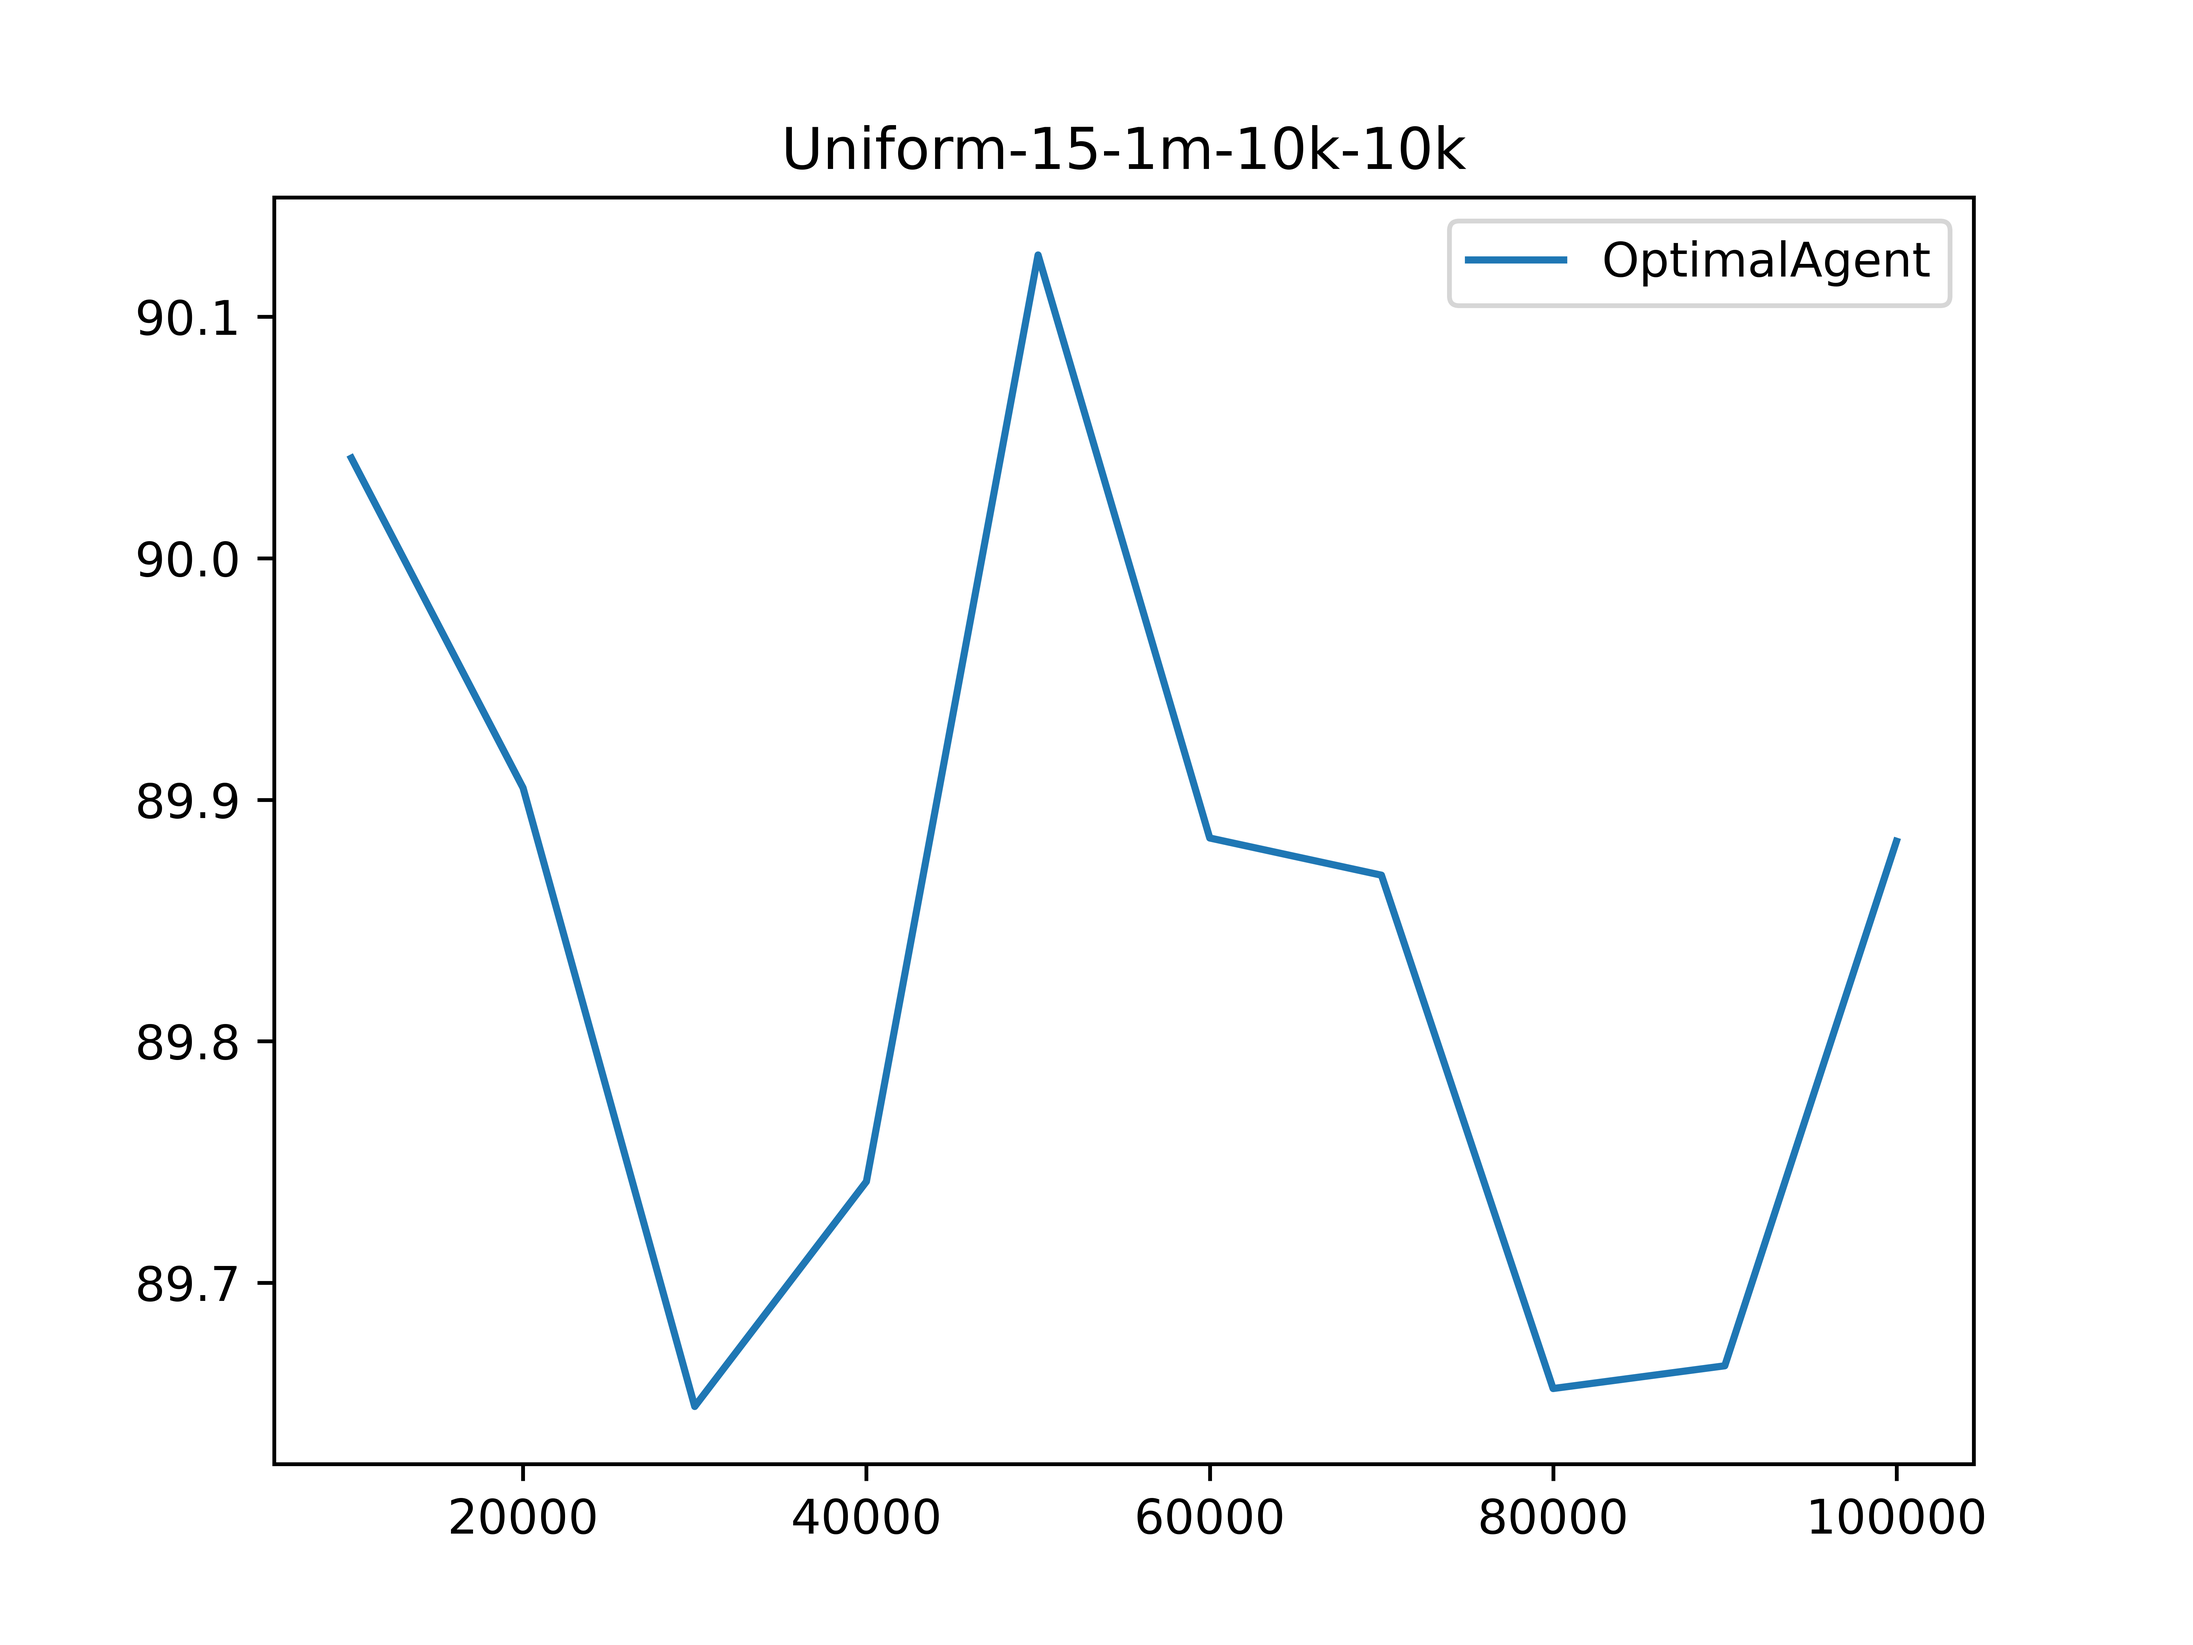
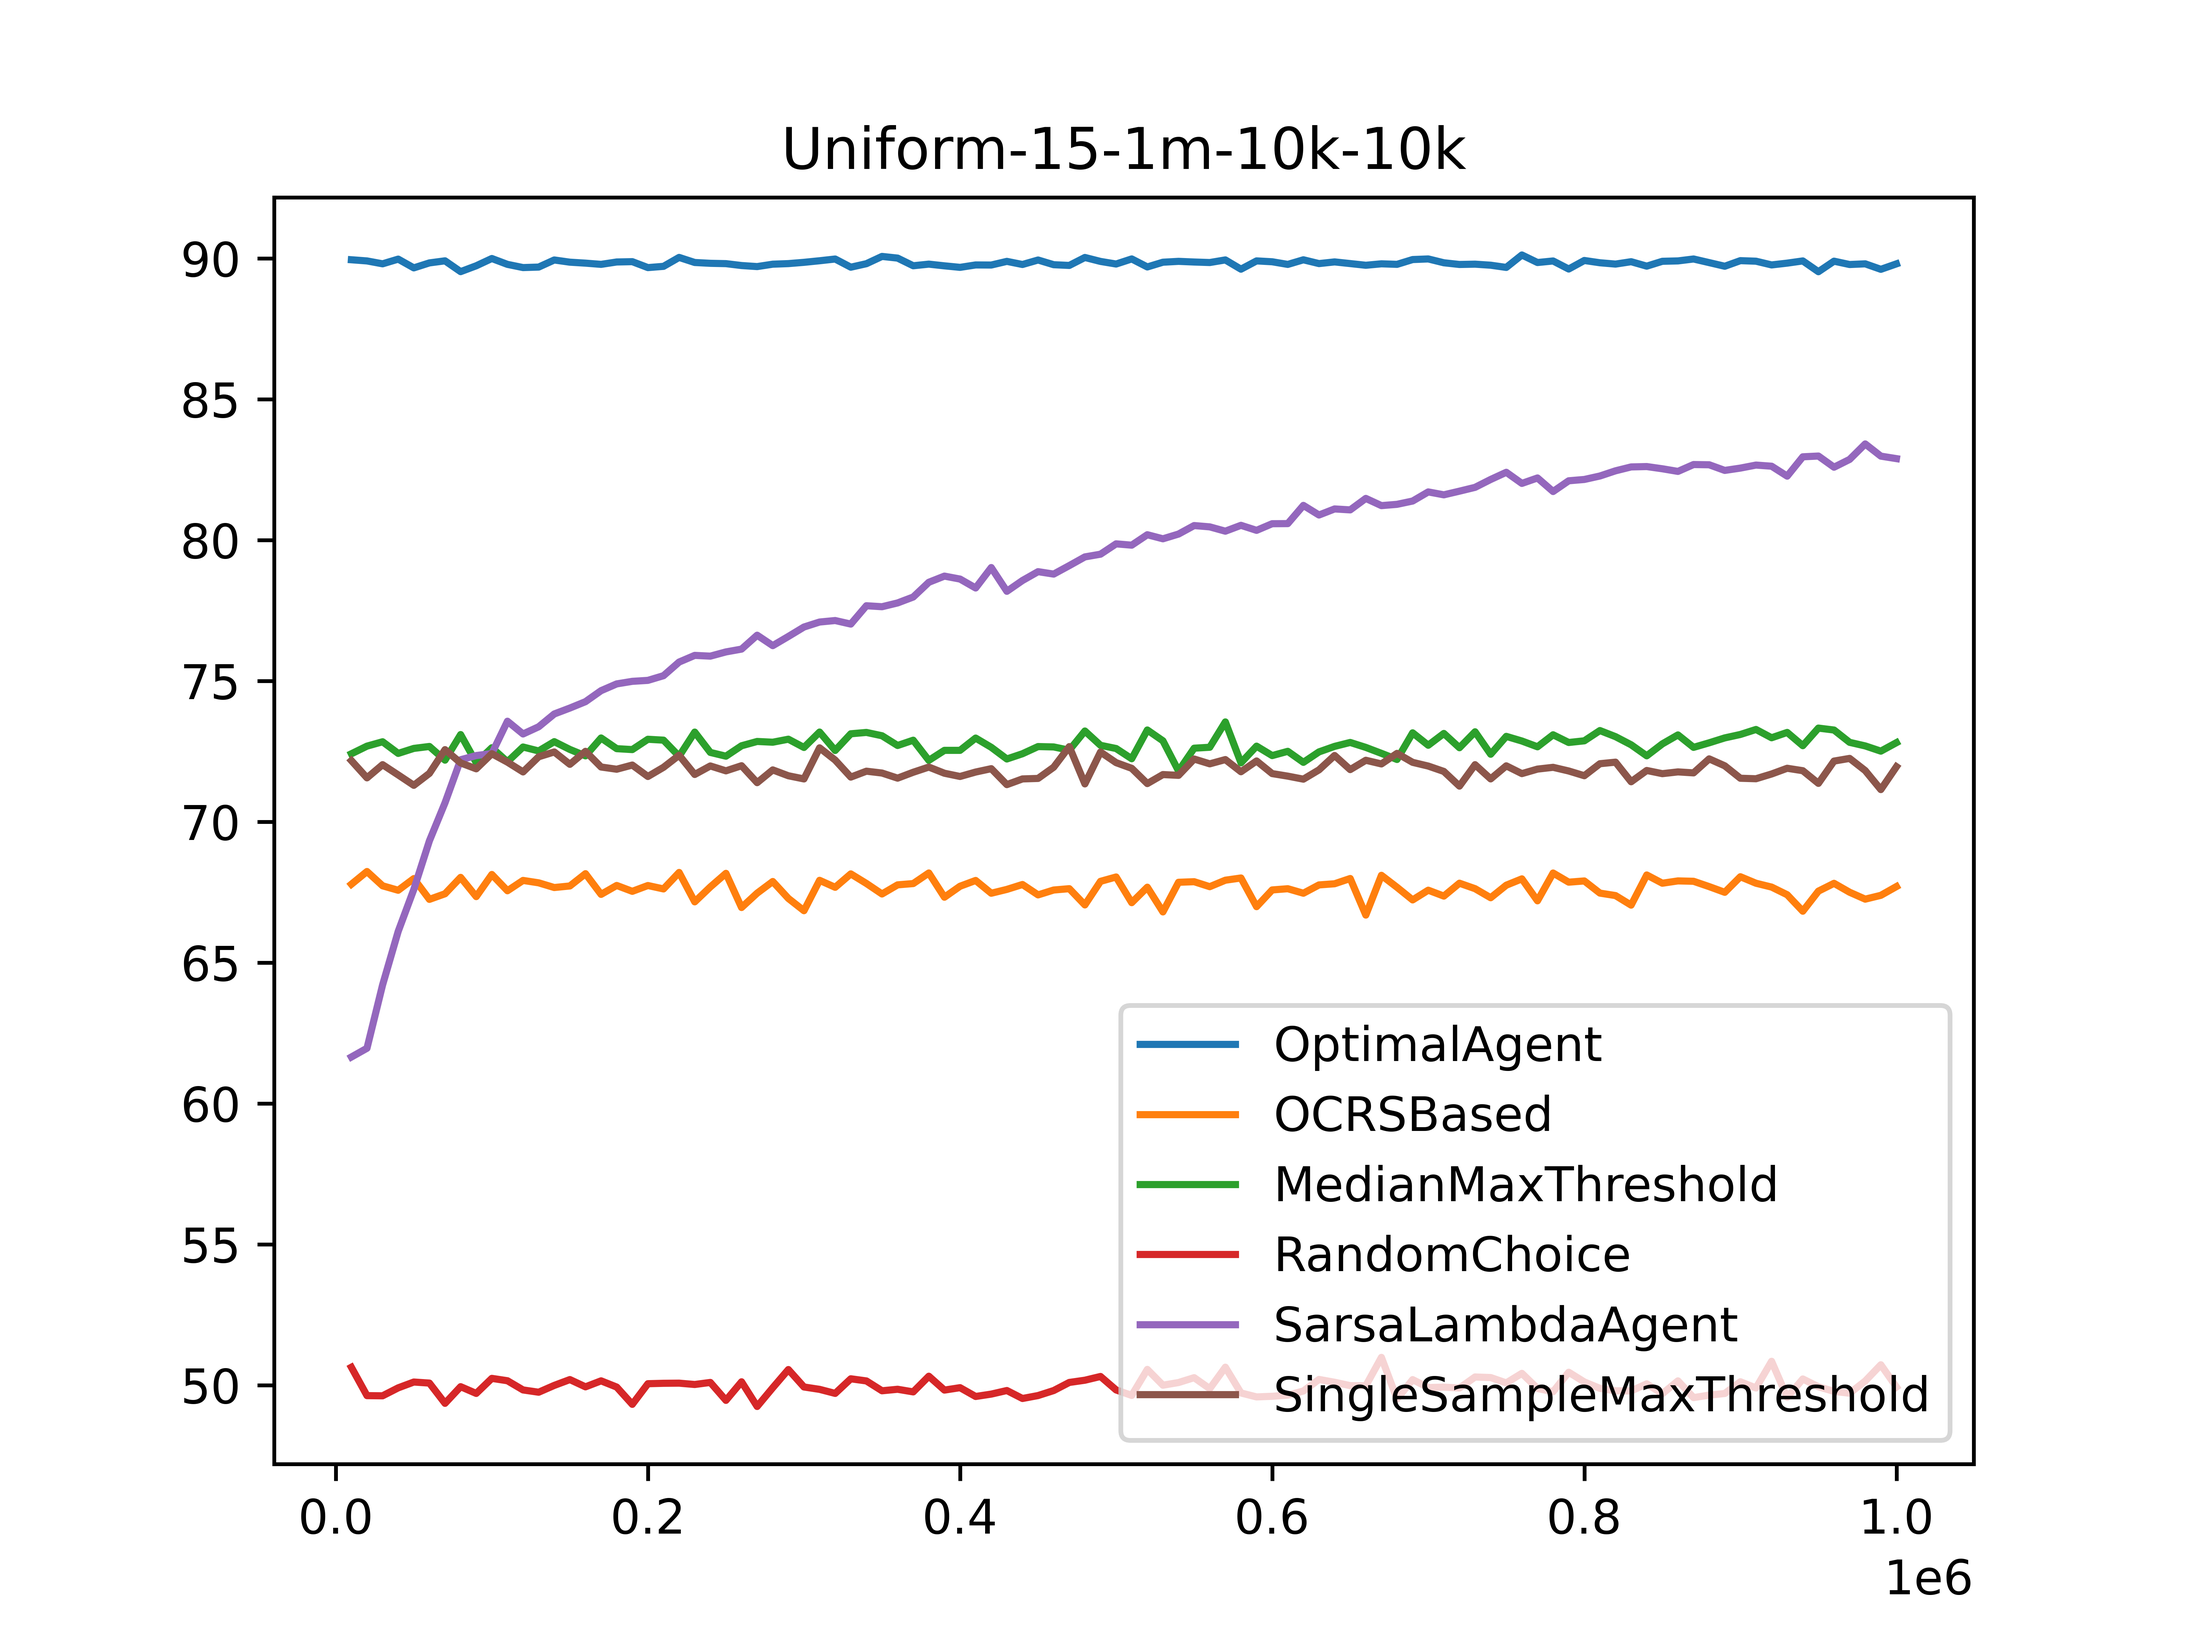
new tests

diff --git a/test.py b/test.py
@@ -6,7 +6,7 @@ from prophet import ProphetInequalityEnv
 import os
 
 from tile_coding import StateActionFeatureVectorWithTile
-from nn import VApproximationWithNN, PiApproximationWithNN
+from nn import VApproximationWithNN, PiApproximationWithNN, Baseline
 
 from classic_algos import *
 from sarsa import SarsaLambdaAgent
@@ -30,7 +30,6 @@ def train_and_compare_models(test_name, distribution, num_items, num_episodes, e
 
     # Tile coding for SARSA Agent
     reward_low, reward_high = distribution.interval(confidence=0.999)
-    print(reward_low, reward_high)
     tile_coding = StateActionFeatureVectorWithTile(
         state_low=np.array([0, reward_low]),
         state_high=np.array([num_items + 1, reward_high]),
@@ -39,19 +38,21 @@ def train_and_compare_models(test_name, distribution, num_items, num_episodes, e
         tile_width=np.array([1, (reward_high - reward_low) / 100])
     )
     # NN pi/V for REINFORCE Agent
-    pi = PiApproximationWithNN(2, 2, 3e-4)
+    pi_baseline = PiApproximationWithNN(2, 2, 3e-4)
+    pi_no_baseline = PiApproximationWithNN(2, 2, 3e-4)
     V = VApproximationWithNN(2, 3e-4)
 
     # Add agents here
     agents = [
         # DQN(env),
-        # SarsaLambdaAgent(env=env, gamma=1, lam=0.2, alpha=0.05, X=tile_coding),
-        # REINFORCEAgent(env=env, gamma=1, pi=pi, V=V),
-        # MedianMaxThreshold(env),
-        # OCRSBased(env),
-        # SingleSampleMaxThreshold(env),
-        # RandomChoice(env),
-        OptimalAgent(env),
+        # SarsaLambdaAgent(env=env, name='SarsaLambdaAgent', gamma=1, lam=0.2, alpha=0.05, X=tile_coding),
+        # REINFORCEAgent(env=env, name='REINFORCEWithBaseline', gamma=1, pi=pi_baseline, V=V),
+        REINFORCEAgent(env=env, name='REINFORCEWithoutBaseline', gamma=1, pi=pi_no_baseline, V=Baseline(0.)),
+        # MedianMaxThreshold(env, name='MedianMaxThreshold'),
+        # OCRSBased(env, name='OCRSBased'),
+        # SingleSampleMaxThreshold(env, name='SingleSampleMaxThreshold'),
+        # RandomChoice(env, name='RandomChoice'),
+        # OptimalAgent(env, name='OptimalAgent'),
     ]
 
     for agent in agents:
@@ -66,21 +67,21 @@ def train_and_compare_models(test_name, distribution, num_items, num_episodes, e
 
 
 # Exponential
-# train_and_compare_models(
-#     test_name='Expon-15-1m-10k-10k',
-#     distribution=stats.expon(loc=0, scale=100),
-#     num_items=15,
-#     num_episodes=1_000_000,
-#     evaluate_interval=10_000,
-#     samples_per_eval=10_000
-# )
+train_and_compare_models(
+    test_name='Expon-15-1m-10k-10k',
+    distribution=stats.expon(loc=0, scale=100),
+    num_items=15,
+    num_episodes=1_000_000,
+    evaluate_interval=10_000,
+    samples_per_eval=10_000
+)
 
 # Uniform
 train_and_compare_models(
     test_name='Uniform-15-1m-10k-10k',
     distribution=stats.uniform(loc=0, scale=100),
     num_items=15,
-    num_episodes=100_000,
+    num_episodes=1_000_000,
     evaluate_interval=10_000,
     samples_per_eval=10_000
 )
@@ -88,19 +89,19 @@ train_and_compare_models(
 # Use this later when we have enough files
 # plot_test_rewards(
 #     test_name='Uniform-15-1m-10k-10k',
-#     num_episodes=100_000,
+#     num_episodes=1_000_000,
 #     evaluate_interval=10_000
 # )
 
 # Half Normal
-# train_and_compare_models(
-#     test_name='Halfnorm-15-1m-10k-10k',
-#     distribution=stats.halfnorm(loc=0, scale=100),
-#     num_items=15,
-#     num_episodes=1_000_000,
-#     evaluate_interval=10_000,
-#     samples_per_eval=10_000
-# )
+train_and_compare_models(
+    test_name='Halfnorm-15-1m-10k-10k',
+    distribution=stats.halfnorm(loc=0, scale=100),
+    num_items=15,
+    num_episodes=1_000_000,
+    evaluate_interval=10_000,
+    samples_per_eval=10_000
+)
 
 # # Initialize environment
 

diff --git a/classic_algos.py b/classic_algos.py
@@ -2,8 +2,8 @@ from prophet import ProphetInequalityEnv, ProphetInequalityAgent
 import numpy as np
 
 class MedianMaxThreshold(ProphetInequalityAgent):
-    def __init__(self, env: ProphetInequalityEnv):
-        self.name = 'MedianMaxThreshold'
+    def __init__(self, env, name):
+        super().__init__(env, name)
         info = env._get_info()
         distrib, num_items = info['distribution'], info['num_items']
         self.num_items = num_items
@@ -14,8 +14,8 @@ class MedianMaxThreshold(ProphetInequalityAgent):
         return item_index == self.num_items - 1 or item_value >= self.threshold
 
 class OCRSBased(ProphetInequalityAgent):
-    def __init__(self, env: ProphetInequalityEnv):
-        self.name = 'OCRSBased'
+    def __init__(self, env, name):
+        super().__init__(env, name)
         info = env._get_info()
         distrib, num_items = info['distribution'], info['num_items']
         self.num_items = num_items
@@ -26,8 +26,8 @@ class OCRSBased(ProphetInequalityAgent):
         return item_index == self.num_items - 1 or (item_value >= self.threshold and np.random.binomial(1, 0.5))
 
 class SingleSampleMaxThreshold(ProphetInequalityAgent):
-    def __init__(self, env: ProphetInequalityEnv):
-        self.name = 'SingleSampleMaxThreshold'
+    def __init__(self, env, name):
+        super().__init__(env, name)
         info = env._get_info()
         distrib, num_items = info['distribution'], info['num_items']
         self.distrib = distrib
@@ -40,8 +40,8 @@ class SingleSampleMaxThreshold(ProphetInequalityAgent):
         return item_index == self.num_items - 1 or item_value >= self.threshold
 
 class OptimalAgent(ProphetInequalityAgent):
-    def __init__(self, env: ProphetInequalityEnv):
-        self.name = 'OptimalAgent'
+    def __init__(self, env, name):
+        super().__init__(env, name)
         info = env._get_info()
         distrib, num_items = info['distribution'], info['num_items']
         self.threshold = np.zeros((num_items))
@@ -56,8 +56,8 @@ class OptimalAgent(ProphetInequalityAgent):
         return item_value > self.threshold[int(item_index)]
 
 class RandomChoice(ProphetInequalityAgent):
-    def __init__(self, env: ProphetInequalityEnv):
-        self.name = 'RandomChoice'
+    def __init__(self, env, name):
+        super().__init__(env, name)
 
     def select_action(self, state):
         return 1

diff --git a/sarsa.py b/sarsa.py
@@ -2,9 +2,9 @@ import numpy as np
 from prophet import ProphetInequalityAgent
 
 class SarsaLambdaAgent(ProphetInequalityAgent):
-    def __init__(self, env, gamma, lam, alpha, X):
-        self.name = 'SarsaLambdaAgent'
-        self.env, self.gamma, self.lam, self.alpha, self.X = env, gamma, lam, alpha, X
+    def __init__(self, env, name, gamma, lam, alpha, X):
+        super().__init__(env, name)
+        self.gamma, self.lam, self.alpha, self.X = env, gamma, lam, alpha, X
         self.total_episode_count = 0
         self.w = np.zeros((X.feature_vector_len()))
 

diff --git a/reinforce.py b/reinforce.py
@@ -2,9 +2,9 @@ from prophet import ProphetInequalityEnv, ProphetInequalityAgent
 import torch
 
 class REINFORCEAgent(ProphetInequalityAgent):
-    def __init__(self, env, gamma, pi, V):
-        self.name = 'REINFORCEAgent'
-        self.env, self.gamma, self.pi, self.V = env, gamma, pi, V
+    def __init__(self, env, name, gamma, pi, V):
+        super().__init__(env, name)
+        self.gamma, self.pi, self.V = gamma, pi, V
     
     def select_action(self, state):
         return self.pi(state)

diff --git a/dqn.py b/dqn.py
@@ -12,10 +12,9 @@ import numpy as np
 import random
 
 class DQN(ProphetInequalityAgent):
-    def __init__(self, env):
-        self.name = 'DQN'
+    def __init__(self, env, name):
+        super().__init__(env, name)
 
-        self.env     = env
         self.memory  = deque(maxlen=2000)
         
         self.gamma = 0.85

diff --git a/prophet.py b/prophet.py
@@ -64,8 +64,8 @@ class ProphetInequalityEnv(Env):
         pass
 
 class ProphetInequalityAgent(object):
-    def __init__(self):
-        pass
+    def __init__(self, env: ProphetInequalityEnv, name: str):
+        self.env, self.name = env, name
 
     def select_action(self, state) -> int:
         return 1
